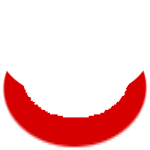
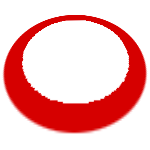
target system ready

Changed region(s): [[0.0, 0.08, 0.9867, 0.9867]]

diff --git a/src/private/Enemy.cpp b/src/private/Enemy.cpp
@@ -2,6 +2,7 @@
 #include "../public/AudioManager.h"
 
 Enemy::Enemy() : Pawn(){ // Use this to call to parent's contructor first
+    Targetted = false;
     PrepareMarker();
 }
 
@@ -17,10 +18,14 @@ void Enemy::Update(float delta){
 }
 
 void Enemy::Draw(double percent, double delta ){
+    if(Targetted) {
+        float offsetx = TargetMarker->getSpriteR().getLocalBounds().width*0.55/2; // 0.4 is the marker texture scale
+        float offsety = 20; // 0.4 is the marker texture scale
+        TargetMarker->setPosition(this->getInterpolatedPos().x-offsetx, this->getInterpolatedPos().y-offsety);
+        TargetMarker->Draw();
+    }
+
     Pawn::Draw(percent, delta);
-    float offset = TargetMarker->getSpriteR().getLocalBounds().width*0.55/2; // 0.4 is the marker texture scale
-    TargetMarker->setPosition(this->getInterpolatedPos().x-offset, this->getInterpolatedPos().y);
-    TargetMarker->Draw();
 }
 
 void Enemy::TakeDamage(float damage, Actor* dmgCauser, string damage_type){
@@ -55,8 +60,6 @@ bool Enemy::Attack(){
     return true;
 }
 
-void ToggleTarget(bool Active){
-    if(Active) {
-
-    }
+void Enemy::ToggleTarget(bool Active){
+    Targetted = Active;
 }

diff --git a/src/public/Enemy.h b/src/public/Enemy.h
@@ -22,6 +22,7 @@ class Enemy: public Pawn {
     private:
         SSprite* TargetMarker;
         void PrepareMarker();
+        bool Targetted;
 };
 
 #endif
